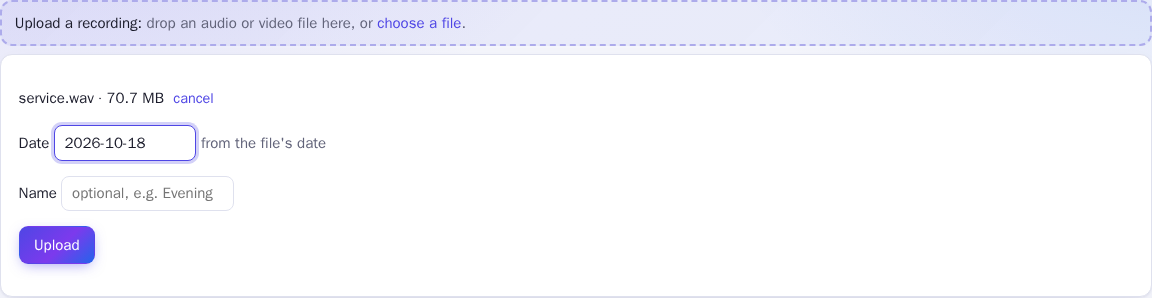
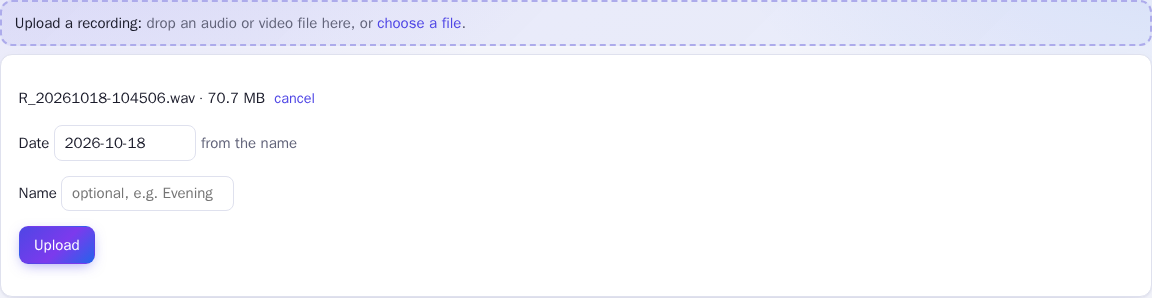
README in plain Markdown; the guide uploads an X32-named recording (#42)
The README's centred HTML blocks become Markdown: heading, badges and
pictures as images. Markdown has no widths, so the logo is left out (the
header in the pictures shows it) and the tall phone picture is a link.

The guide's service recording is named like a Behringer X32 makes it,
R_20261018-104506.wav, and its date comes from the name.

Changed region(s): [[0.0312, 0.3926, 0.1875, 0.5738], [0.0, 0.302, 0.2812, 0.3624], [0.2188, 0.453, 0.2812, 0.5134]]

diff --git a/web/e2e/guide/guide.spec.js b/web/e2e/guide/guide.spec.js
@@ -56,9 +56,9 @@ test('upload, cut, save', async ({ page }) => {
   await expect(page.locator('button.year-head', { hasText: '2026' })).toHaveAttribute('aria-expanded', 'true');
   await shot(page, '01-recordings');
 
-  // Upload: the date is taken from the file name; here it is typed.
-  await page.locator('input[type=file]').setInputFiles(path.join(DATA, 'service.wav'));
-  await page.locator('input[name=date]').fill('2026-10-18');
+  // Upload: the date is taken from the file name, as the X32 names it.
+  await page.locator('input[type=file]').setInputFiles(path.join(DATA, 'R_20261018-104506.wav'));
+  await expect(page.locator('input[name=date]')).toHaveValue('2026-10-18');
   await shot(page, '02-upload', page.locator('.upload'));
   await page.getByRole('button', { name: 'Upload' }).click();
   await expect(page).toHaveURL(/#\/grace-chapel\/folder\/2026\/2026-10-18$/);

diff --git a/README.md b/README.md
@@ -1,24 +1,14 @@
-<p align="center">
-  <img src="web/static/icons/logo.svg" alt="Sermon Studio" width="88">
-</p>
+# Sermon Studio
 
-<h1 align="center">Sermon Studio</h1>
+**Turn a recording of a church service into publish-ready sermon files.**
+Cut the sermon out on a waveform. Get evenly loud FLAC, MP3 and Opus, ready for podcast services.
 
-<p align="center">
-  <strong>Turn a recording of a church service into publish-ready sermon files.</strong><br>
-  Cut the sermon out on a waveform. Get evenly loud FLAC, MP3 and Opus, ready for podcast services.
-</p>
+[![Build](https://github.com/gunnaringe/sermon-studio/actions/workflows/image.yml/badge.svg)](https://github.com/gunnaringe/sermon-studio/actions/workflows/image.yml)
+[![License: Apache 2.0](https://img.shields.io/badge/license-Apache--2.0-blue)](LICENSE)
+![Go, standard library only](https://img.shields.io/badge/go-stdlib%20only-00ADD8)
+![English, Norwegian bokmål and nynorsk](https://img.shields.io/badge/UI-English%20%C2%B7%20bokm%C3%A5l%20%C2%B7%20nynorsk-lightgrey)
 
-<p align="center">
-  <a href="https://github.com/gunnaringe/sermon-studio/actions/workflows/image.yml"><img src="https://github.com/gunnaringe/sermon-studio/actions/workflows/image.yml/badge.svg" alt="Build"></a>
-  <a href="LICENSE"><img src="https://img.shields.io/badge/license-Apache--2.0-blue" alt="License: Apache 2.0"></a>
-  <img src="https://img.shields.io/badge/go-stdlib%20only-00ADD8" alt="Go, standard library only">
-  <img src="https://img.shields.io/badge/UI-English%20%C2%B7%20bokm%C3%A5l%20%C2%B7%20nynorsk-lightgrey" alt="English, Norwegian bokmål and nynorsk">
-</p>
-
-<p align="center">
-  <img src="docs/img/hero.png" alt="The editor: a 14-minute speech as a waveform, two sections kept, a cough cut out" width="900">
-</p>
+![The editor: a 14-minute speech as a waveform, two sections kept, a cough cut out](docs/img/hero.png)
 
 ## The problem
 
@@ -36,7 +26,7 @@ Keep one section or several, cut out a cough or a song in the middle, and label 
 listen: press once where a part starts and again where it ends. Hear the join before you commit, and
 undo any step. Nothing is ever cut from the original.
 
-<p align="center"><img src="docs/img/05-sections-list.png" alt="Sections and cuts, with labels and exact times" width="760"></p>
+![Sections and cuts, with labels and exact times](docs/img/05-sections-list.png)
 
 **Even, standard loudness.** Speech and music are recorded at very different levels. The output is
 mixed to mono (or kept stereo), noise-reduced, and normalised to podcast loudness (-19 LUFS, measured
@@ -47,10 +37,9 @@ let a recorder drop files in a church's inbox folder, or hand a sound technician
 public upload page that needs no login. WAV, AIFF, FLAC, MP3, M4A, Ogg, Opus, WMA and video files
 (the sound is copied out unchanged) all work.
 
-<p align="center">
-  <img src="docs/img/01-recordings.png" alt="The recordings page: years, status, labels, search" width="48%">
-  <img src="docs/img/16-public-uploaded.png" alt="The public upload page, used with a share code and no login" width="48%">
-</p>
+![The recordings page: years, status, labels, search](docs/img/01-recordings.png)
+
+![The public upload page, used with a share code and no login](docs/img/16-public-uploaded.png)
 
 **Safe by design.** The original recording is kept, whole, next to the results. A file is deleted
 only after its copy is verified identical. Outputs are written to a temporary name and renamed when
@@ -59,13 +48,9 @@ complete, so a crash never leaves a half-written file. Everything about a record
 
 **Made for several churches and for phones.** One folder per church, each with its own default tags,
 names, logo and users. The interface is in English, Norwegian bokmål and nynorsk, in a light or dark
-theme, and the editor works with a finger on a phone.
+theme, and the editor works with a finger [on a phone](docs/img/18-phone-editor.png).
 
-<p align="center">
-  <img src="docs/img/18-phone-editor.png" alt="The editor on a phone" width="26%">
-  &nbsp;&nbsp;
-  <img src="docs/img/19-dark-editor.png" alt="The editor in the dark theme" width="68%">
-</p>
+![The editor in the dark theme](docs/img/19-dark-editor.png)
 
 ## How it works
 
